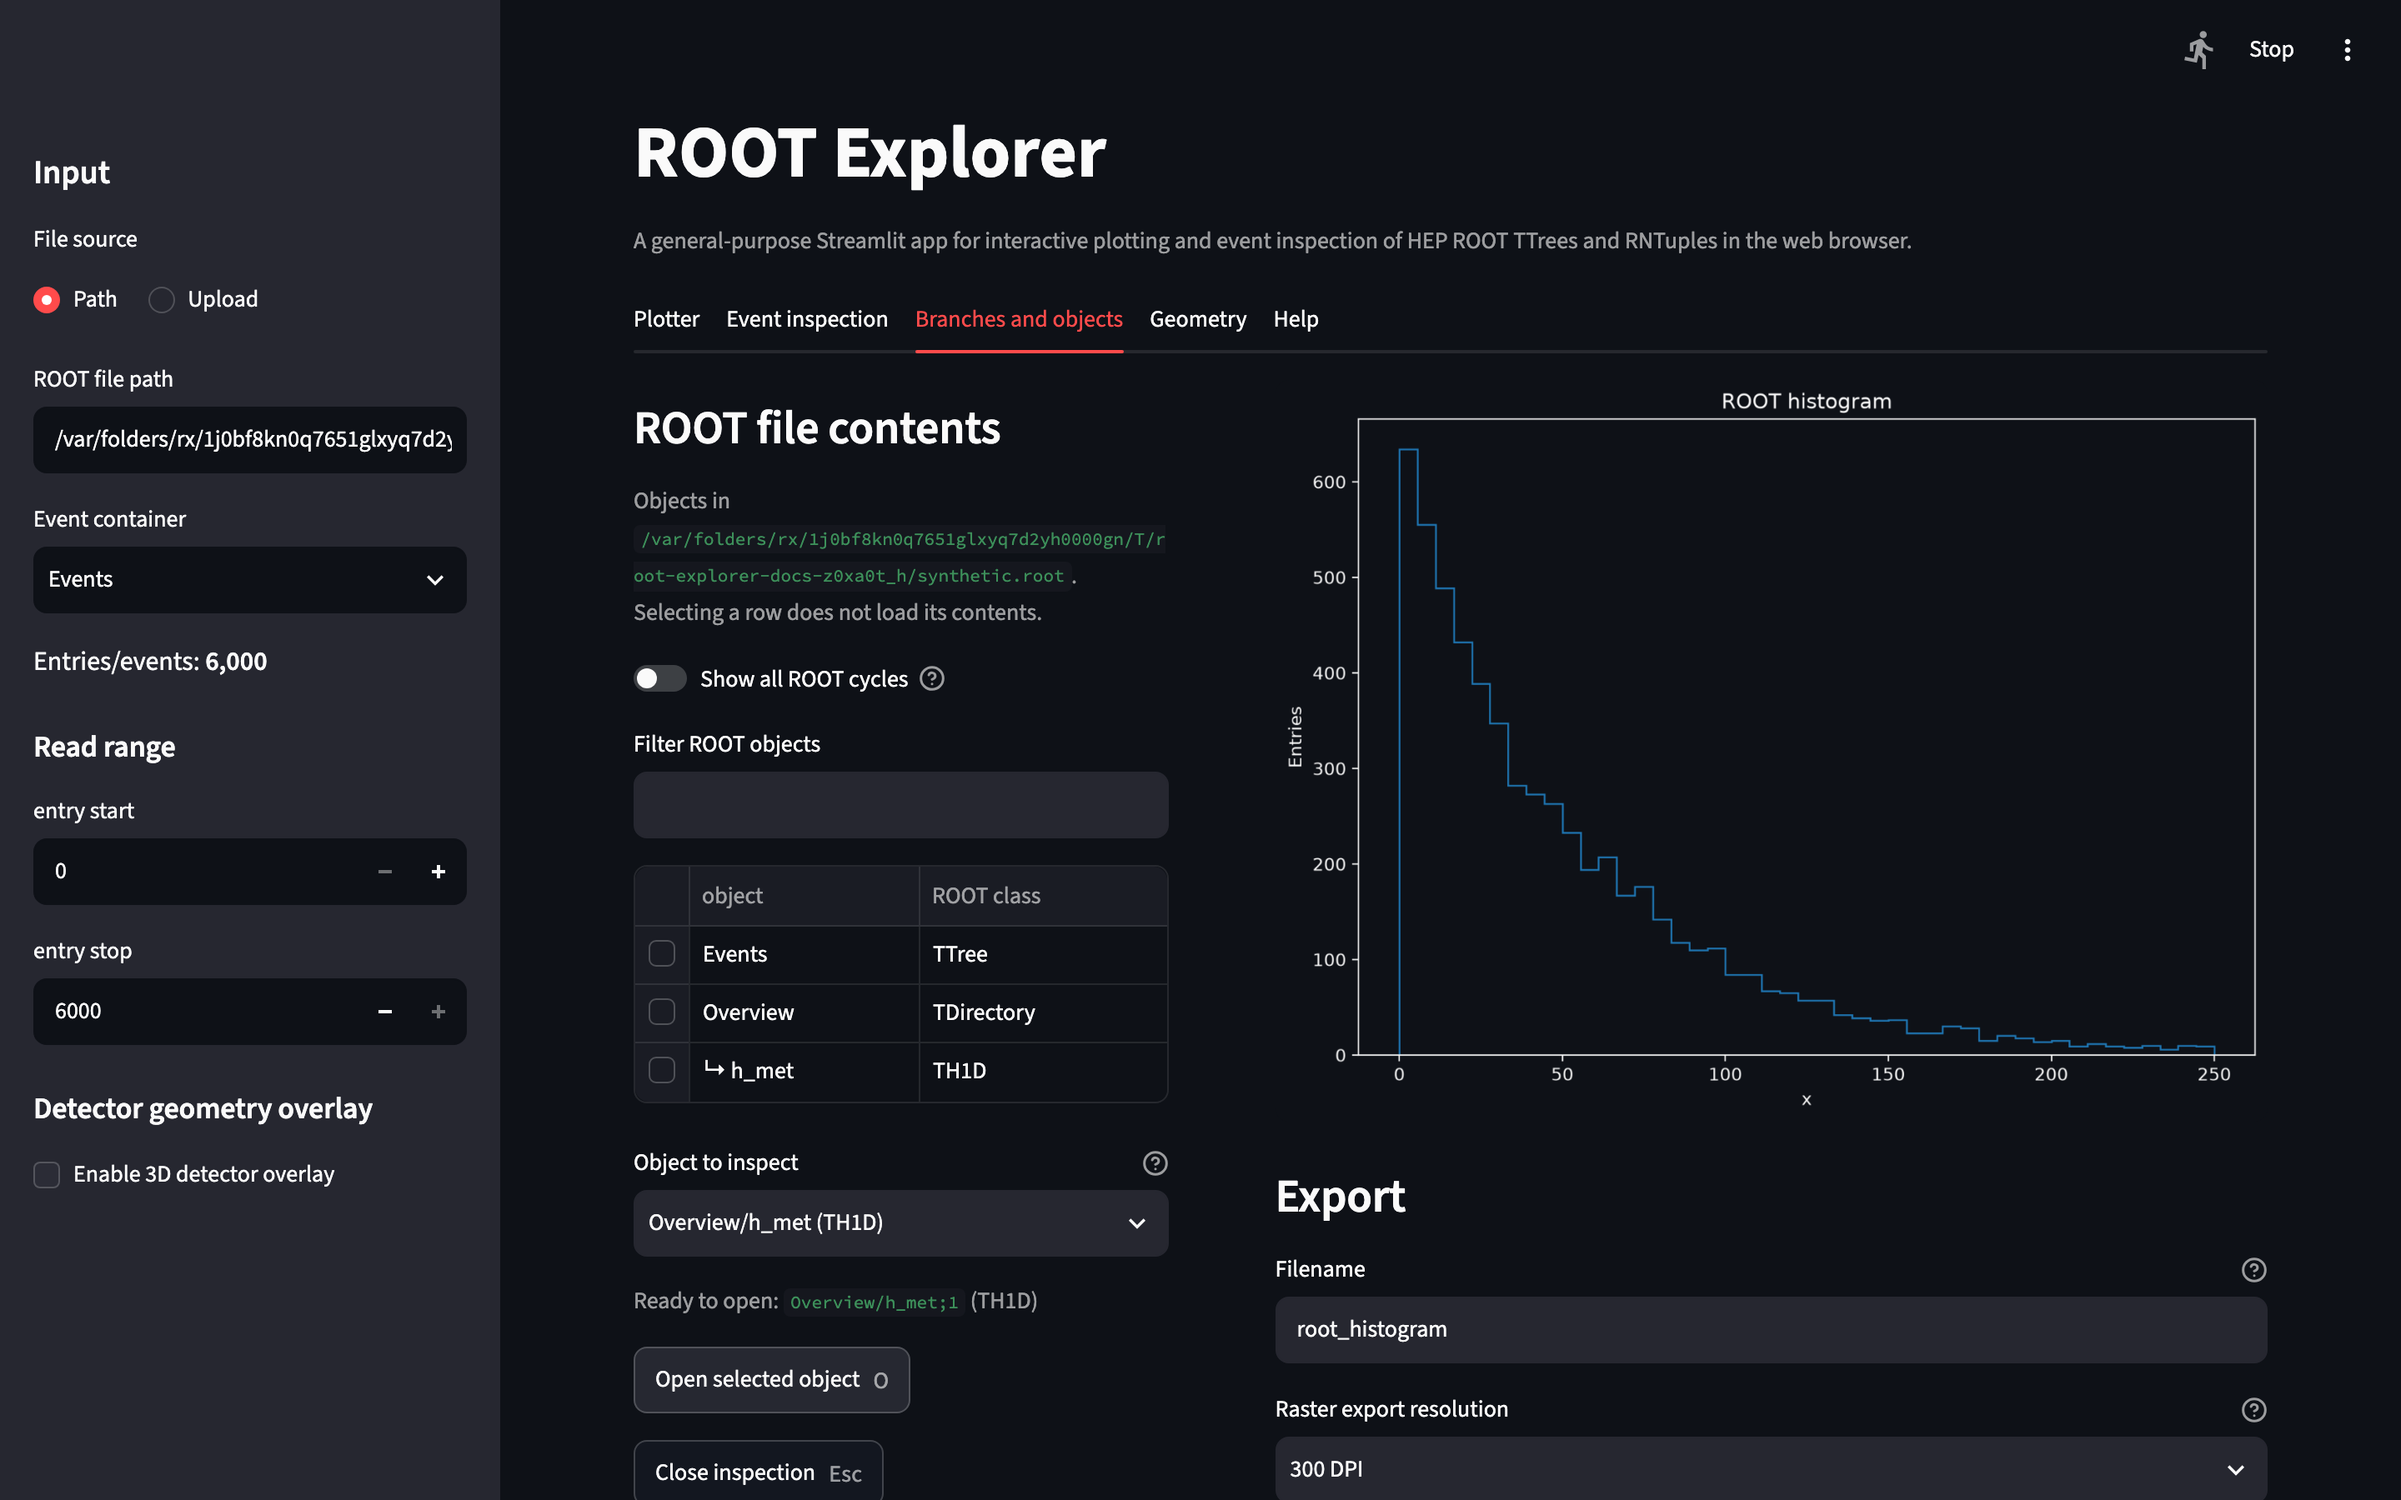
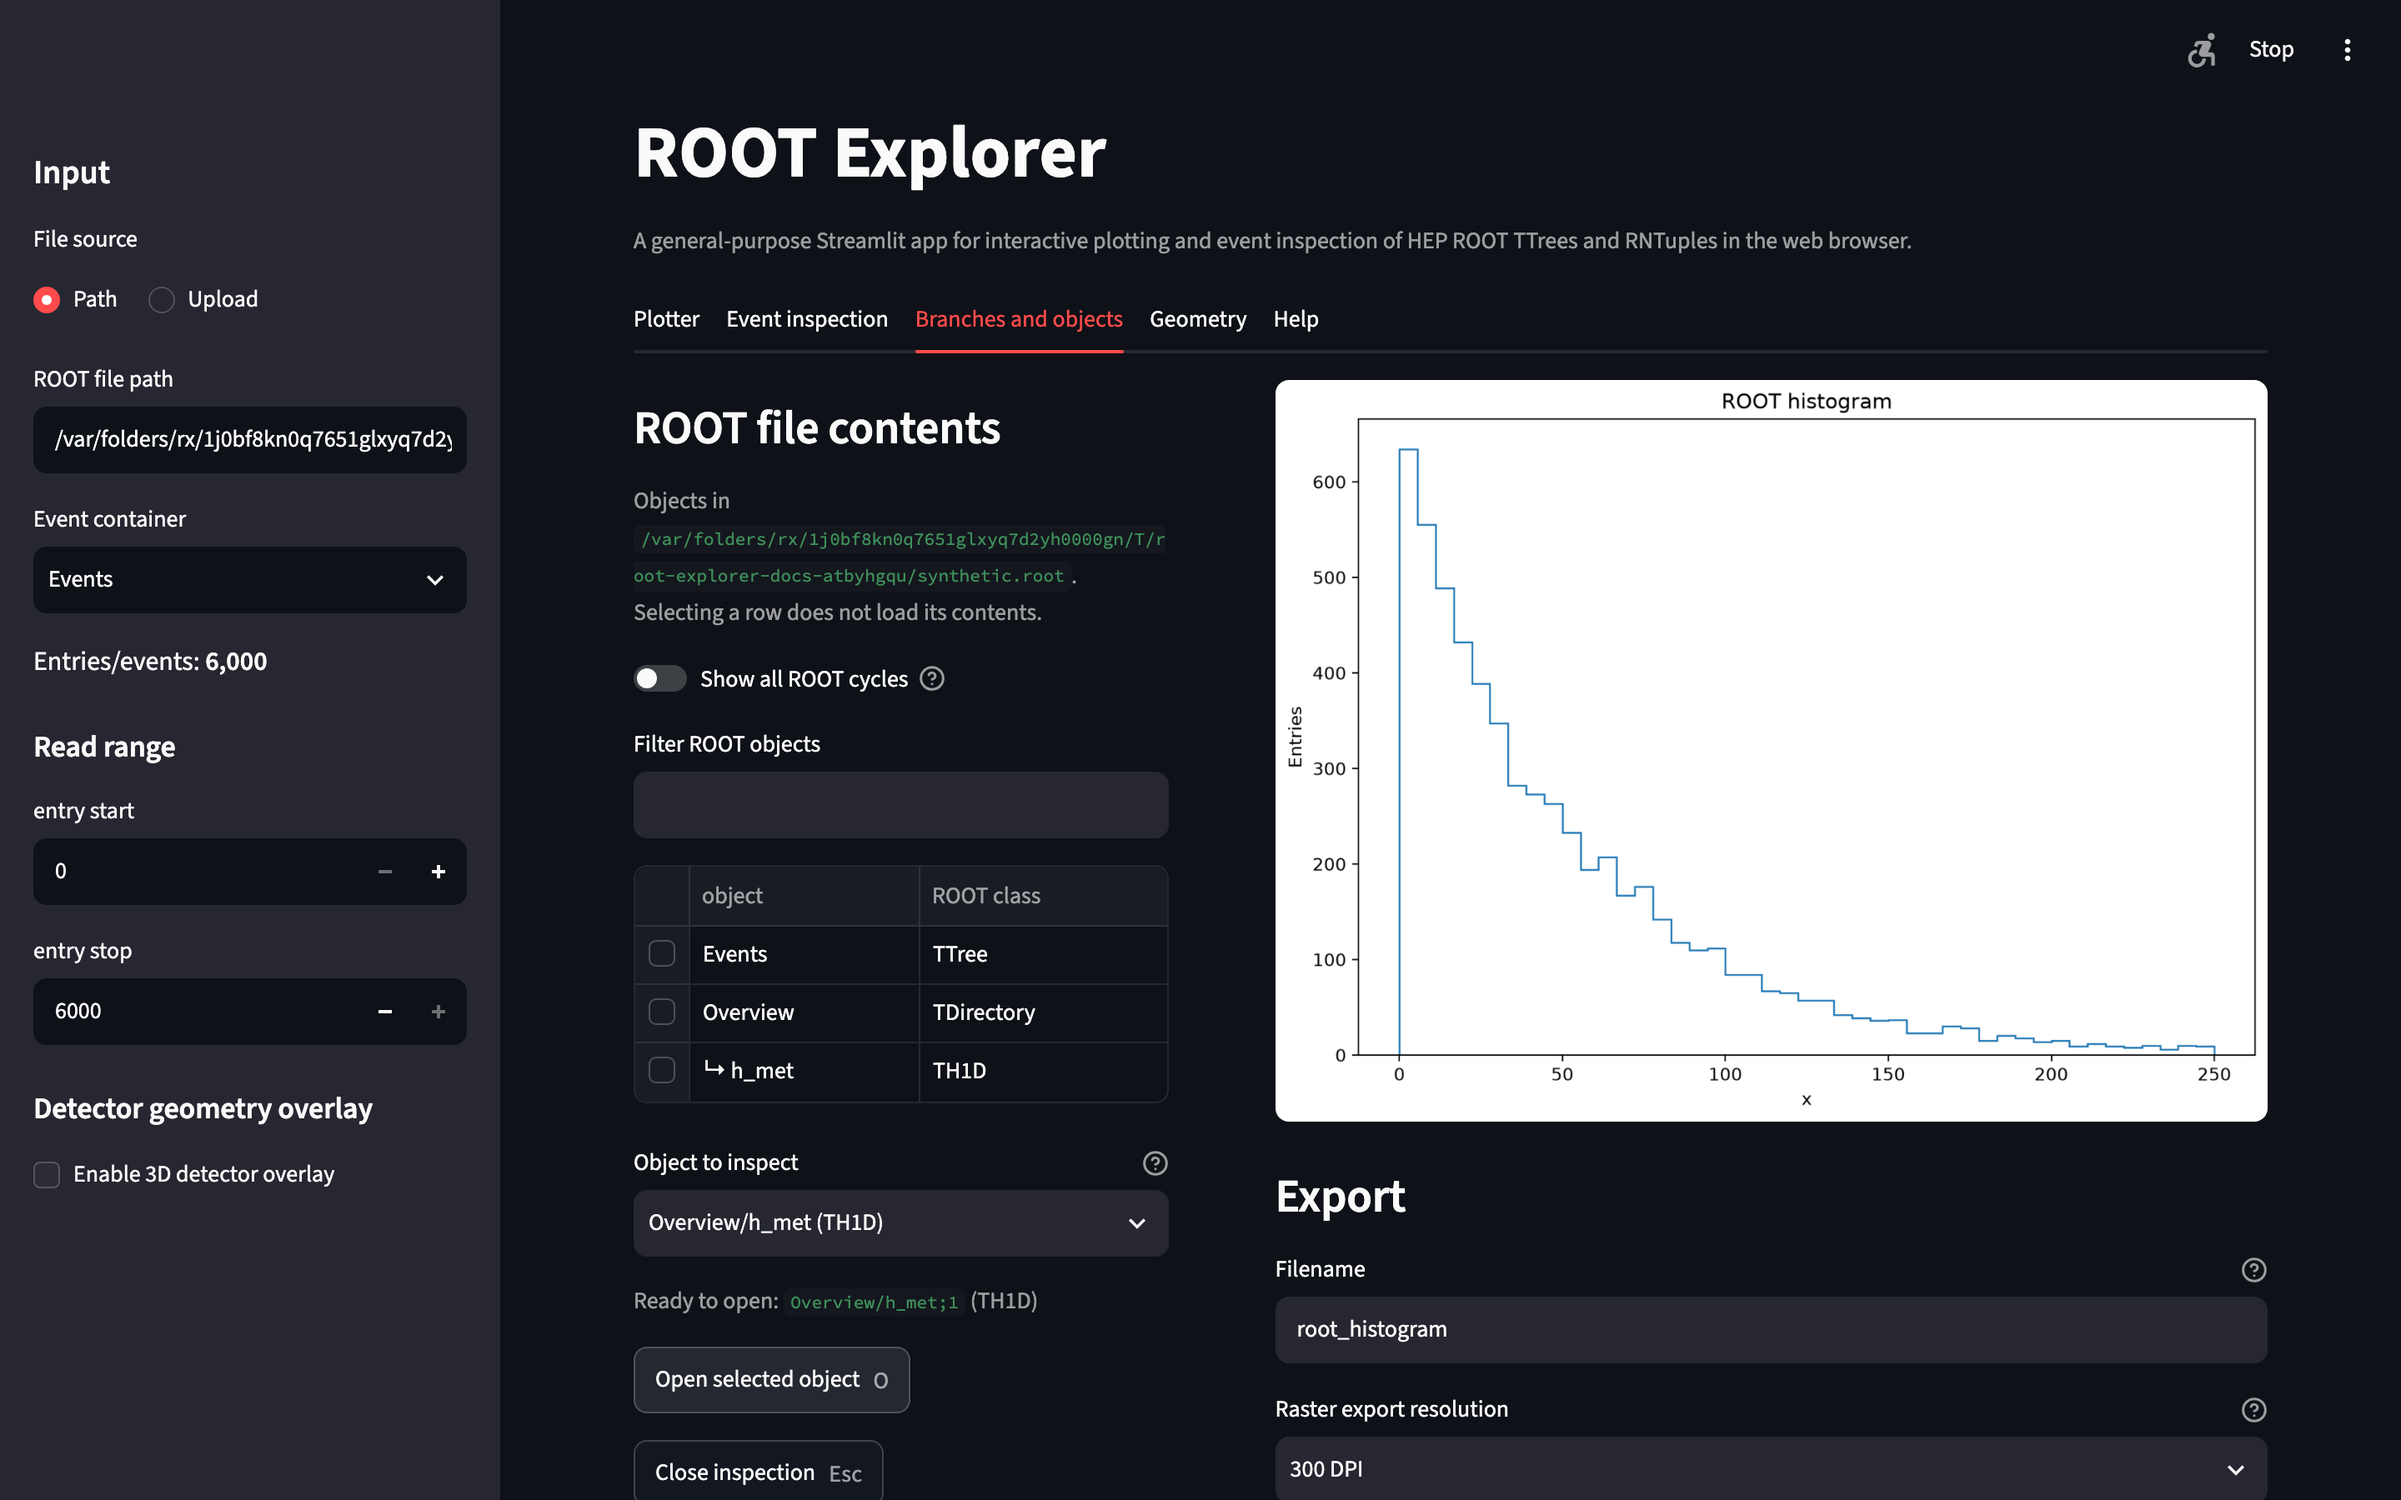
Keep default Matplotlib styling in documentation screenshots
The screenshot script gave figures a dark Matplotlib style in dark mode.
Once its colours were parsed, the dark screenshots showed dark plots,
although the app always draws them with Matplotlib's default white style.
Capture both themes with an empty Matplotlib configuration instead and
regenerate the screenshots.

Changed region(s): [[0.5312, 0.2489, 0.9688, 0.7467], [0.9062, 0.0311, 0.9375, 0.0622], [0.3438, 0.3733, 0.375, 0.4044]]

diff --git a/docs/scripts/generate_screenshots.py b/docs/scripts/generate_screenshots.py
@@ -44,32 +44,6 @@ def screenshot_name(name: str, theme: str) -> str:
     return name if theme == "dark" else f"{Path(name).stem}-light.png"
 
 
-def matplotlib_rc(theme: str) -> str:
-    """Give figures the same theme as their Streamlit surroundings."""
-    if theme not in THEMES:
-        raise ValueError(f"Unsupported screenshot theme: {theme}")
-    # matplotlibrc treats unquoted '#' as a comment, including in hex colours.
-    background = '"#0e1117"' if theme == "dark" else '"#ffffff"'
-    foreground = '"#fafafa"' if theme == "dark" else '"#242424"'
-    grid = '"#606975"' if theme == "dark" else '"#d0d4da"'
-    return (
-        "\n".join(
-            (
-                f"figure.facecolor: {background}",
-                f"axes.facecolor: {background}",
-                f"savefig.facecolor: {background}",
-                f"axes.edgecolor: {foreground}",
-                f"axes.labelcolor: {foreground}",
-                f"text.color: {foreground}",
-                f"xtick.color: {foreground}",
-                f"ytick.color: {foreground}",
-                f"grid.color: {grid}",
-            )
-        )
-        + "\n"
-    )
-
-
 def wait_for_server(base_url: str, process: subprocess.Popen[str]) -> None:
     deadline = time.monotonic() + 75
     while time.monotonic() < deadline:
@@ -385,11 +359,11 @@ def main() -> None:
         data = generate(Path(temp) / "synthetic.root")
         themes = THEMES if args.theme == "both" else (args.theme,)
         for theme in themes:
-            # Each theme gets its own Streamlit process and Matplotlib config,
-            # so no settings can leak between the light and dark captures.
+            # Each theme gets its own Streamlit process and an empty Matplotlib
+            # config, so figures use Matplotlib's defaults as in the app, in both
+            # themes, and no local matplotlibrc changes the captures.
             mplconfig = Path(temp) / f"matplotlib-{theme}"
             mplconfig.mkdir()
-            (mplconfig / "matplotlibrc").write_text(matplotlib_rc(theme))
             app = subprocess.Popen(
                 [
                     sys.executable,

diff --git a/docs/scripts/README.md b/docs/scripts/README.md
@@ -19,6 +19,8 @@ generates **ten PNGs**, five each in light and dark mode, in
 `overview-light.png`). Both themes use a 1440 × 900 CSS-pixel viewport
 captured at 2× device scale (2880 × 1800 PNG pixels) for sharp documentation
 images. This increases pixel density, not nominal PNG DPI metadata.
+Static plots keep Matplotlib's default white style in both themes, as in the
+app; only the Streamlit interface follows the theme.
 
 The app must not already be listening on this port. To use a different free
 port, pass `--port` (e.g. `--port 8752`); the script then polls
